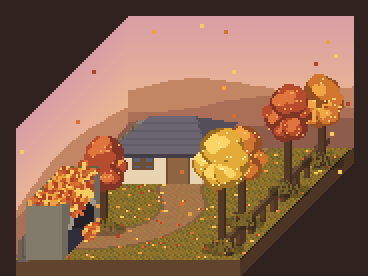
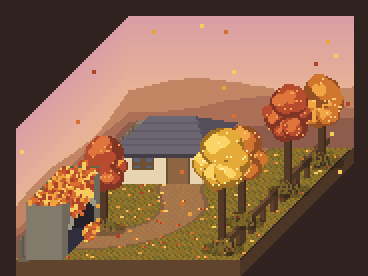
Autumn scene: mountain ridge pattern continues across the back/left corner
Claude-Session: https://claude.ai/code/session_01FPZSaKiVNU2zED737yZX4w

diff --git a/tools/render_autumn.py b/tools/render_autumn.py
@@ -54,7 +54,8 @@ def build():
     for layer, (col, base, amp, ph) in enumerate(((  (190, 130, 100), 22, 14, 0), ((164, 104, 84), 14, 12, 2), ((132, 84, 70), 6, 10, 4))):   # 먼 산 능선 3겹
         pts = [(0, D, 0)] + [(x, D, base + amp * (.5 + .5 * math.sin(x / 26 + ph) * math.cos(x / 61 + ph))) for x in range(0, W + 1, 4)] + [(W, D, 0)]
         sc.poly(pts, col)
-        pts = [(0, 0, 0)] + [(0, dd, base - 4 + amp * (.5 + .5 * math.sin(dd / 30 + ph))) for dd in range(0, D + 1, 4)] + [(0, D, 0)]
+        rid = lambda u: base + amp * (.5 + .5 * math.sin(u / 26 + ph) * math.cos(u / 61 + ph))                 # 뒤 평면 능선식을 왼쪽 평면으로 그대로 이어 편다(꺾이는 모서리에서 끊김 없음)
+        pts = [(0, 0, 0)] + [(0, dd, rid(-(D - dd))) for dd in range(0, D + 1, 2)] + [(0, D, 0)]
         sc.poly(pts, col)
     # 땅: 가을 풀밭 + 구불구불한 흙길
     pxm = lambda d: 56 + 8 * math.sin(d / 16.0) + 3 * math.sin(d / 7.0)
